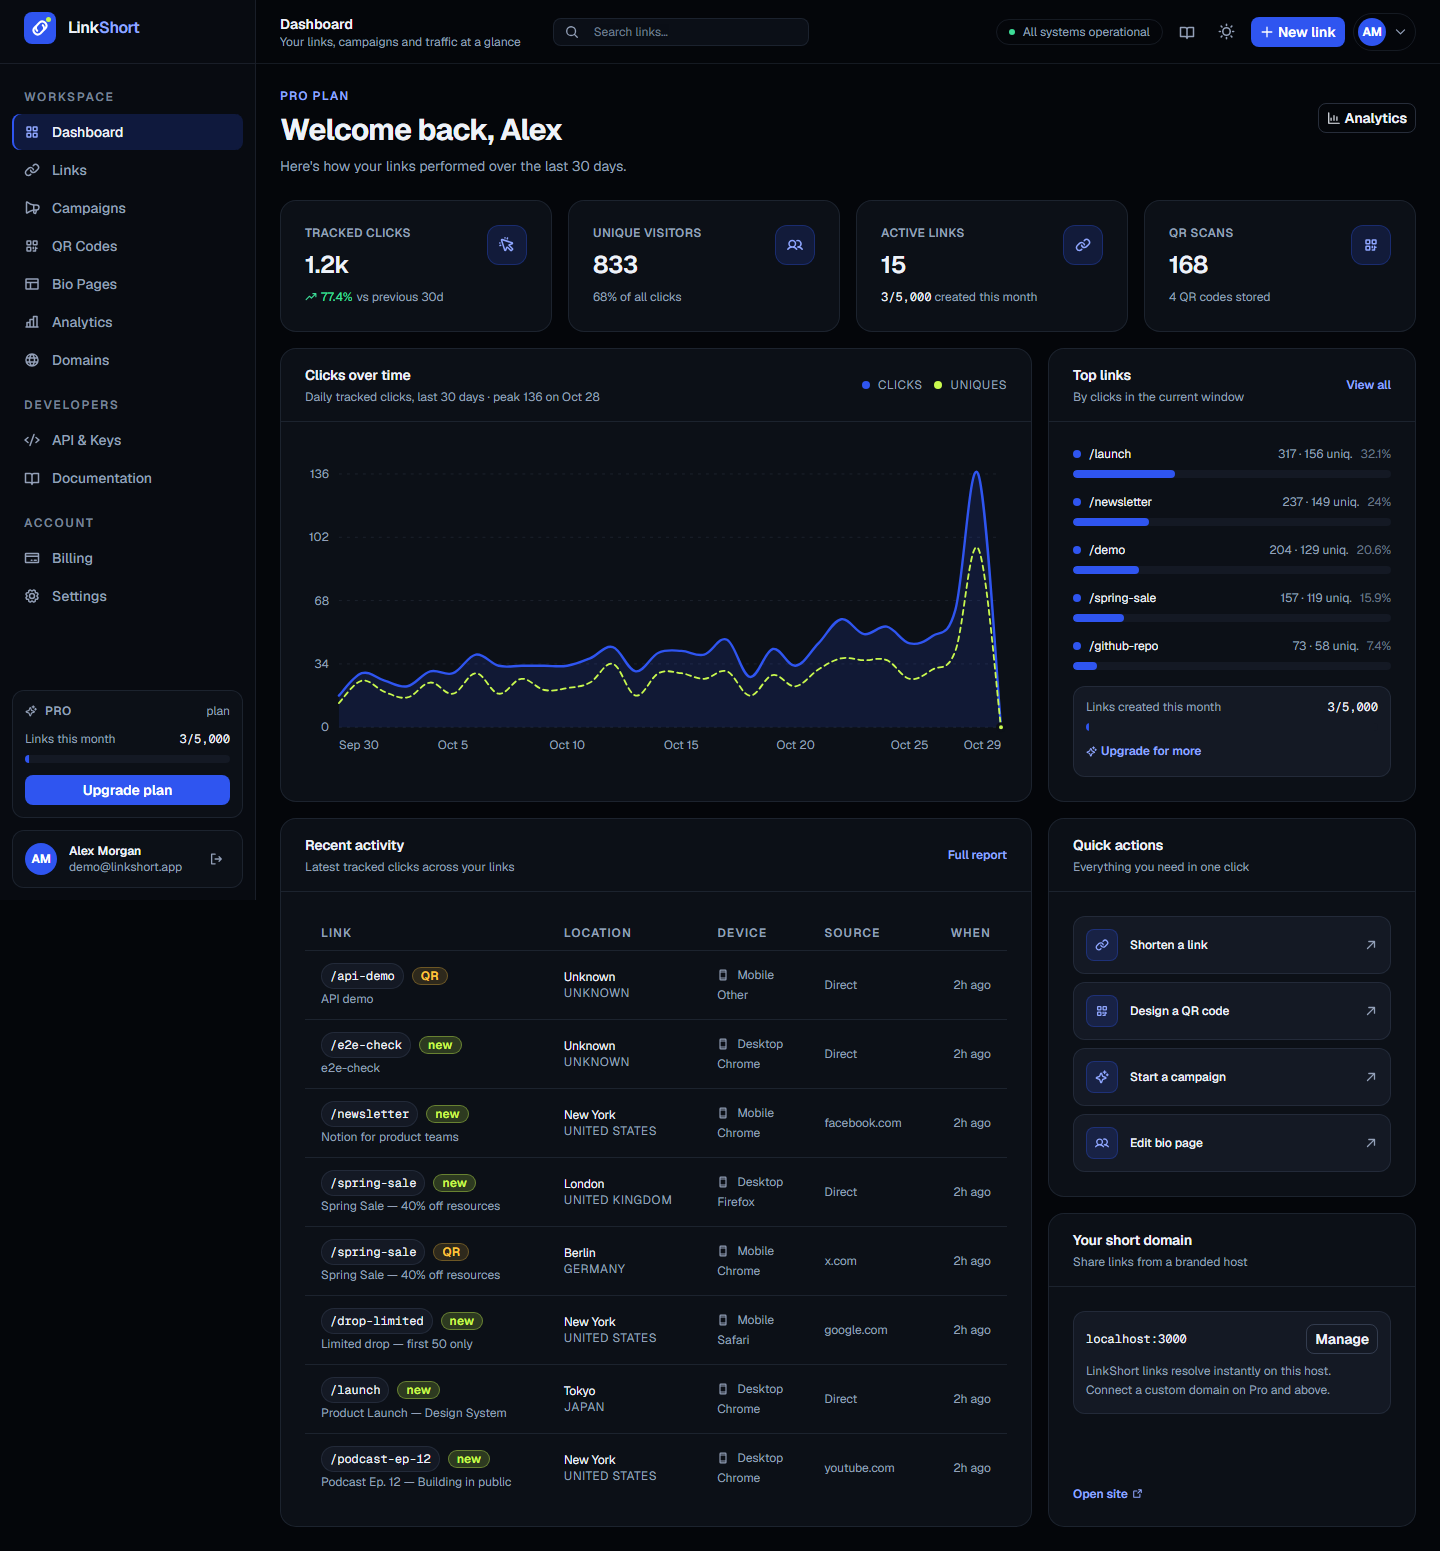
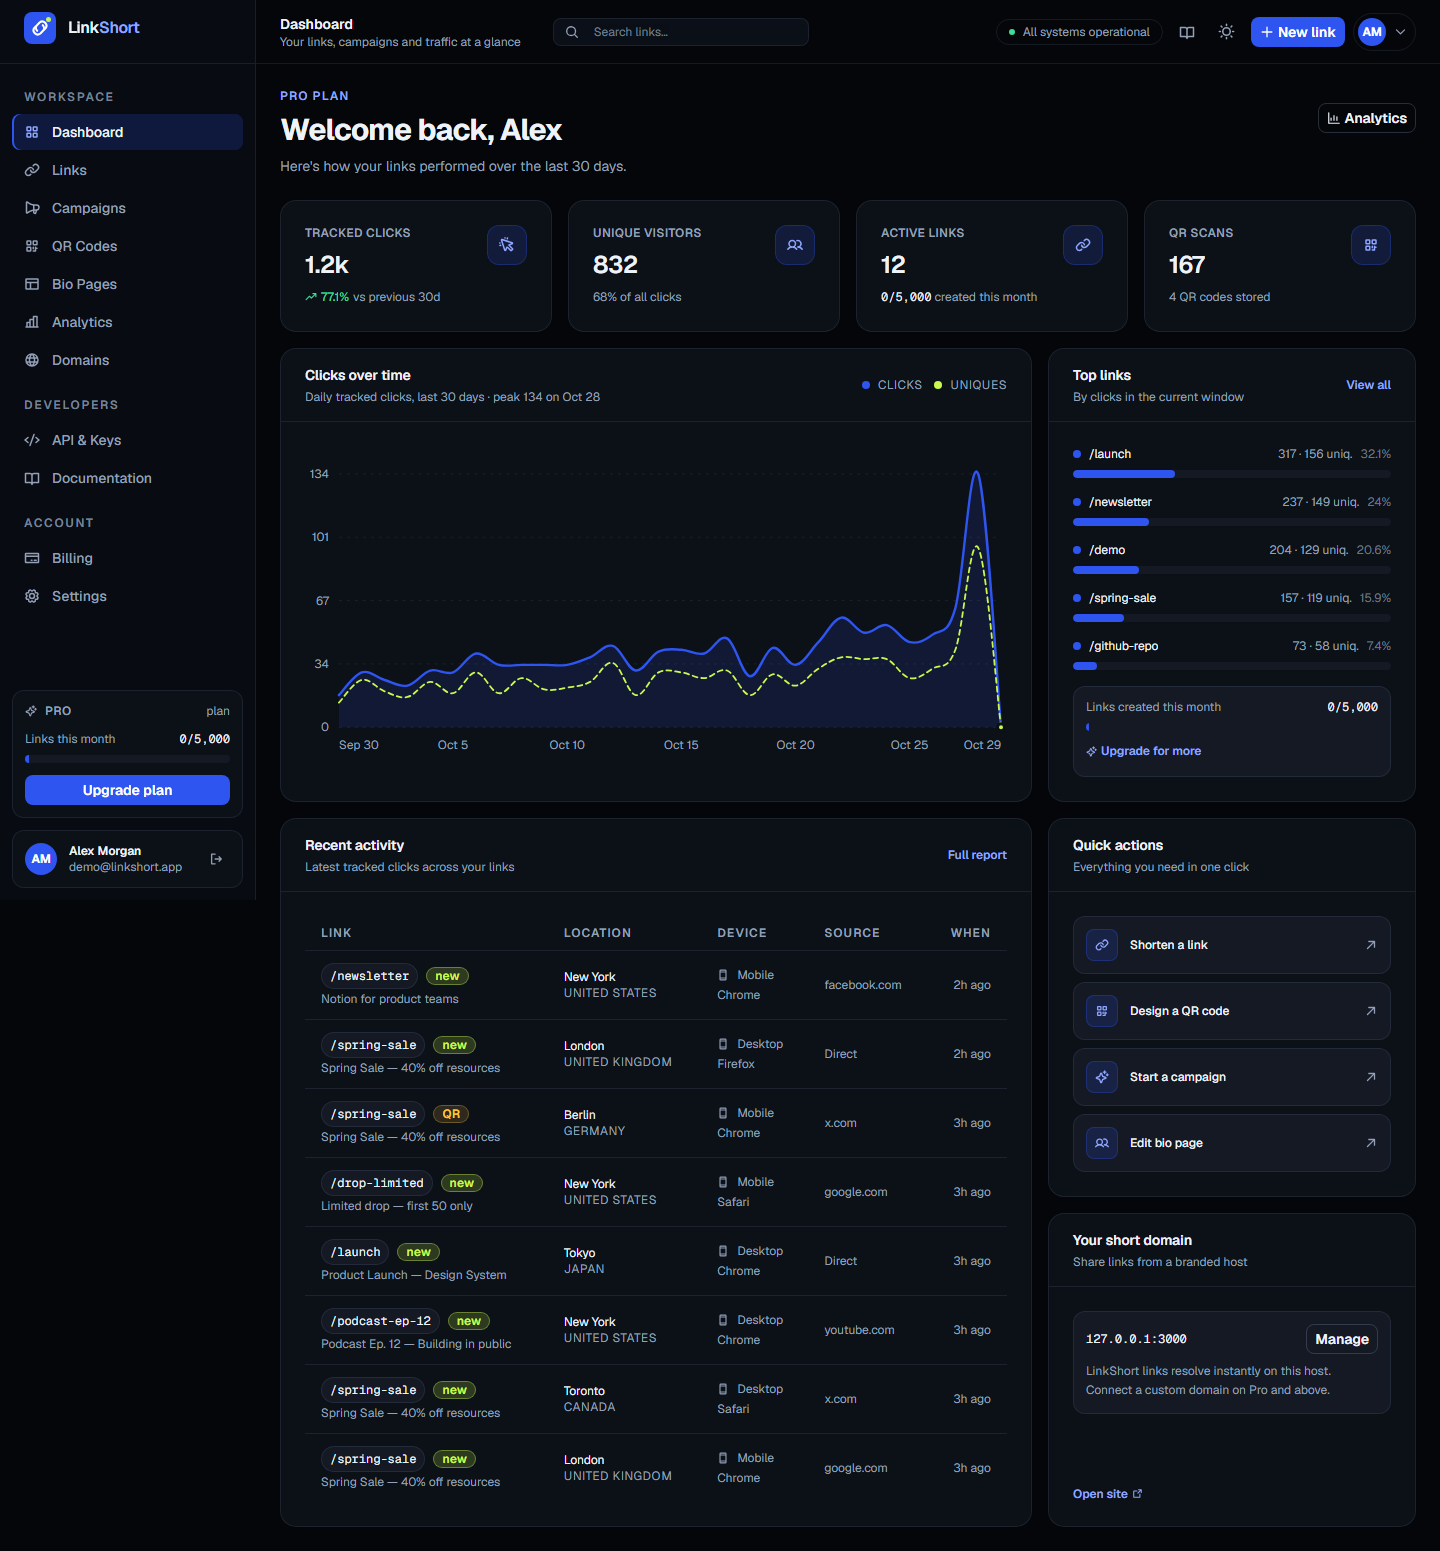
Document the product in detail and correct the setup claims
Expand the README with the plan matrix, the redirect pipeline, the REST API
with request examples, the route and table inventory, token table and
deployment constraints. Drop two claims the code does not support: QR export
is SVG-only, and only link creation is rate limited at 240 requests per
minute. Refresh the dashboard screenshot against the clean seed.

diff --git a/README.md b/README.md
@@ -1,82 +1,191 @@
 # LinkShort
 
-A self-hosted link shortener with branded short links, QR codes, campaigns, bio pages and click analytics. Built as a single Next.js app with a local SQLite database — no external services, no build pipeline beyond `next build`.
+A self-hosted link shortener with branded short links, QR codes, campaigns, bio pages and click analytics. One Next.js app, one SQLite file, no external services.
 
 ![LinkShort dashboard](docs/screenshot-dashboard.png)
 
+- [Highlights](#highlights)
+- [Stack](#stack)
+- [Quickstart](#quickstart)
+- [Configuration](#configuration)
+- [Plans](#plans)
+- [How a short link is served](#how-a-short-link-is-served)
+- [REST API](#rest-api)
+- [Routes](#routes)
+- [Data model](#data-model)
+- [Design system](#design-system)
+- [Project structure](#project-structure)
+- [Deployment](#deployment)
+- [Status and limits](#status-and-limits)
+
 ## Highlights
 
-- **Short links** — custom aliases, expiry dates, click caps, password protection, active/paused toggles and bulk actions.
-- **Click analytics** — 7/30/90/365 day windows, country/city/device/browser/OS/referrer breakdowns, unique-visitor deduplication, bot filtering, CSV export.
-- **QR codes** — foreground/background colours, quiet-zone margin, error-correction level, centre label, PNG/SVG export.
-- **Campaigns** — group links, compare performance, share traffic between A/B variants.
-- **Bio pages** — themed public pages at `/p/[slug]` with social, heading and text blocks and their own click tracking.
-- **Custom domains** — add and verify (DNS TXT) branded domains.
-- **Plans and billing** — Free/Basic/Pro/Growth limits enforced at the API layer, invoices, auto-renew toggle.
-- **Public REST API** — bearer-key endpoints under `/api/v1` with per-plan request limits.
-- **Two themes** — midnight-black default with a light theme, both driven by one CSS token set.
+- **Short links** — custom aliases, expiry dates, click caps, password protection, pause/resume, UTM parameters, A/B variants and bulk actions.
+- **Click analytics** — 7/30/90/365 day windows, country/city/device/browser/OS/referrer breakdowns, unique visitors, bot filtering, CSV export of raw rows.
+- **QR codes** — foreground/background colours, quiet-zone margin, error-correction level, centre label, click attribution per code, SVG export.
+- **Campaigns** — group links under a colour-coded campaign, compare performance per channel.
+- **Bio pages** — themed public pages at `/p/[slug]` with social, heading and text blocks; every tap is tracked as a click.
+- **Custom domains** — add branded domains and verify them with a DNS TXT record.
+- **Plans and billing** — Free/Basic/Pro/Growth quotas enforced in the API layer, invoice history, auto-renew toggle.
+- **Public REST API** — bearer-key endpoints under `/api/v1`; link creation is limited to 240 requests per minute per user.
+- **Two themes** — midnight black by default, light theme available, both driven by one set of CSS tokens.
 
 ## Stack
 
 | Layer | Choice |
 | --- | --- |
-| Framework | Next.js 15 (App Router, React 19, Server Actions) |
-| Language | TypeScript (strict) |
+| Framework | Next.js 15 (App Router, React 19, server components) |
+| Language | TypeScript, strict mode |
 | Styling | Tailwind CSS v4 with `@theme inline` tokens in `app/globals.css` |
-| Data | SQLite via `node:sqlite` (built into Node) |
+| Data | SQLite through the built-in `node:sqlite` module |
 | Icons | Phosphor Icons |
-| QR rendering | `qrcode` |
-| Auth | Signed HTTP-only session cookie (HMAC-SHA256), scrypt password hashes |
+| QR rendering | `qrcode` (SVG output) |
+| Auth | HMAC-SHA256 signed session cookie, scrypt password hashes |
+| Build | `next build` — no extra bundler or transpiler step |
 
-## Getting started
+## Quickstart
 
-Requires **Node.js 22.5+** (24 recommended) — the app uses the built-in `node:sqlite` module.
+Requires **Node.js 22.5+** (24 recommended); the app relies on `node:sqlite`, which ships with Node. No database server, no Docker, no API keys.
 
 ```bash
 npm install
 npm run dev
 ```
 
-Open http://localhost:3000. The database is created and seeded on first request at `data/linkshort.db`.
-
-Sign in with the seeded demo account:
+Open http://localhost:3000. On first request the app creates and seeds `data/linkshort.db` with a demo workspace. Sign in with:
 
 ```
 email:    demo@linkshort.app
 password: demo1234
 ```
 
-Delete `data/` to start over with a fresh seed.
+The seed includes 13 links, four campaigns, four QR codes, a bio page and ~30 days of click history, so the dashboard and analytics screens have something to show immediately. Delete `data/` to reseed from scratch.
 
 ## Configuration
 
-All configuration is optional for local development.
+Every variable is optional for local development. Copy `.env.example` to `.env.local` to override.
 
 | Variable | Default | Purpose |
 | --- | --- | --- |
-| `APP_SECRET` | dev placeholder | HMAC key for session cookies and click signatures. **Set this in production.** |
-| `APP_URL` | request origin | Public base URL used for generated short links, QR payloads and email links. |
+| `APP_SECRET` | dev placeholder | HMAC key for session cookies and click signatures. **Set this in production** — changing it invalidates sessions and password-unlock cookies. |
+| `APP_URL` | request origin | Public base URL used for short links, QR payloads and email links. Set it when running behind a proxy. |
 | `DATABASE_PATH` | `data/linkshort.db` | Absolute path to the SQLite file. |
-| `COOKIE_SECURE` | unset | Set to `1` to mark the session cookie `Secure` (do this behind HTTPS). |
+| `COOKIE_SECURE` | unset | Set to `1` to mark the session cookie `Secure`. Do this behind HTTPS. |
 
-Create a `.env.local` for local overrides; it is git-ignored.
-
-## Scripts
+Generate a secret with:
 
 ```bash
-npm run dev        # development server
-npm run build      # production build
-npm run start      # serve the production build
-npm run typecheck  # tsc --noEmit
+node -e "console.log(require('crypto').randomBytes(32).toString('hex'))"
 ```
+
+## Plans
+
+Quotas are enforced when links, QR codes, campaigns, bio pages and domains are created. The plan's analytics window caps the ranges offered in the dashboard.
+
+| Plan | Price | Links / month | QR codes | Campaigns | Bio pages | Domains | Analytics window |
+| --- | --- | --- | --- | --- | --- | --- | --- |
+| Free | $0 | 100 | 5 | 3 | 1 | 0 | 7 days |
+| Basic | $5 | 1,000 | 50 | 20 | 5 | 1 | 30 days |
+| Pro | $13 | 5,000 | 100 | 50 | 15 | 3 | 90 days |
+| Growth | $41 | 15,000 | 250 | 150 | 30 | 10 | 365 days |
+
+Exceeding a quota returns HTTP `402` with a message naming the limit and the plan.
+
+## How a short link is served
+
+`GET /<code>` is handled by a single route handler (`app/[code]/route.ts`) and returns HTML on the public domain, so errors are styled pages rather than bare JSON:
+
+1. **Lookup** — the code is validated against `[A-Za-z0-9_-]{1,64}`, then resolved from the `links` table. Unknown codes get a 404 page.
+2. **Status** — paused links, expired links and links that already hit their click cap return `410` with an explanation page.
+3. **Password** — links with a password hash render a form (`401`) unless the visitor already holds a signed unlock cookie for that code.
+4. **Destination** — an A/B variant is picked against the configured weight, then UTM parameters from the link are applied to the target URL.
+5. **Capacity** — the click counter is incremented in a single conditional `UPDATE`, so concurrent requests cannot exceed `max_clicks`.
+6. **Tracking** — a click row is written with country, city, device, OS, browser, referrer host, UTM values, variant and QR attribution.
+7. **Redirect** — `302` with `cache-control: no-store`. Links carrying retargeting pixels render a small HTML interstitial instead, so the pixel fires before navigation.
+
+Tracking details worth knowing:
+
+- **Unique visitors** are first-seen-per-link, computed from a truncated HMAC of the client IP — raw IPs are never stored.
+- **Bot traffic** is flagged (`is_bot`) from the user agent and excluded from visitor counts.
+- **QR scans** are attributed when the redirect carries `?qr=<qrcode id>` (generated QR payloads do) and increment the code's scan counter.
+- Click rows are written before the redirect is returned, so counts are consistent immediately.
+
+## REST API
+
+The public API uses the account API key (visible and rotatable on `/app/api`), not the session cookie.
+
+```bash
+curl -X POST http://localhost:3000/api/v1/shorten \
+  -H "Authorization: Bearer $LINKSORT_KEY" \
+  -H "Content-Type: application/json" \
+  -d '{"url":"https://example.com/launch","alias":"launch","title":"Launch","tags":["launch"]}'
+```
+
+| Method | Path | Purpose |
+| --- | --- | --- |
+| `POST` | `/api/v1/shorten` | Create a link. Accepts `url`, `alias`, `title`, `campaignId`, `tags`, `password`, `expiresAt` (ISO date or epoch ms), `maxClicks`, `utm*`, `variantB`, `abWeight`. |
+| `GET` | `/api/v1/links` | List links with `q`, `status`, `sort`, `page`, `size`. |
+| `POST` | `/api/v1/links` | Create a link (same body as `/shorten`). |
+| `GET` | `/api/v1/links/[code]` | Fetch one link by code. |
+
+Rate limit: **240 link creations per minute per user**, over the limit returns `429`. Errors are always JSON in the shape `{ "error": "message" }` with a matching status code (`400` validation, `401` auth, `402` quota, `404` missing, `429` rate limit). `POST /api/v1/shorten` and `GET /api/v1/links/[code]` return the link object directly; the session API used by the dashboard wraps its responses (`{ "ok": true, "link": { … } }`).
+
+The session-based API used by the dashboard lives under `/api/*` (links, campaigns, domains, QR codes, pages, billing, account, export) and rejects cross-origin requests. Two endpoints are worth calling out:
+
+- `GET /api/export/clicks?days=30` — streams every click row as CSV.
+- `GET /api/qrcodes/[id]/image` — renders the QR code as SVG; add `?download=1` to send it as an attachment.
 
 ## Routes
 
-Public: `/` (marketing), `/pricing`, `/docs`, `/terms`, `/privacy`, `/cookies`, `/login`, `/register`, `/forgot-password`, `/reset-password`, `/verify-email`, `/[code]` (redirect), `/p/[slug]` (bio page).
+**Public**
 
-App (session required): `/app/dashboard`, `/app/links`, `/app/links/[id]`, `/app/analytics`, `/app/campaigns`, `/app/qrcodes`, `/app/domains`, `/app/pages`, `/app/pages/[id]`, `/app/billing`, `/app/api`, `/app/settings`.
+| Path | What it is |
+| --- | --- |
+| `/` | Marketing landing with a working shortener |
+| `/pricing`, `/docs` | Plan comparison, API and link-behaviour documentation |
+| `/terms`, `/privacy`, `/cookies` | Legal pages |
+| `/login`, `/register`, `/forgot-password`, `/reset-password`, `/verify-email` | Auth flows |
+| `/<code>` | Short-link redirect (or password / error page) |
+| `/p/[slug]` | Public bio page |
 
-Public API (bearer key): `POST /api/v1/shorten`, `GET|POST /api/v1/links`, `GET /api/v1/links/[code]`.
+**App** (session required): `/app/dashboard`, `/app/links`, `/app/links/[id]`, `/app/analytics`, `/app/campaigns`, `/app/qrcodes`, `/app/domains`, `/app/pages`, `/app/pages/[id]`, `/app/billing`, `/app/api`, `/app/settings`.
+
+## Data model
+
+Eleven tables, created on first boot (`lib/db.ts`):
+
+| Table | Holds |
+| --- | --- |
+| `users` | Account, plan, API key, password hash, plan date |
+| `sessions` | Session tokens with expiry |
+| `links` | Short codes, destination, UTM, A/B variant, password hash, caps, counters |
+| `clicks` | One row per click: geo, device, browser, referrer, UTM, bot/unique flags |
+| `campaigns` | Named, colour-coded groups of links |
+| `qrcodes` | Design settings, scans, foreground/background colours |
+| `pages`, `page_blocks` | Bio pages and their ordered blocks |
+| `domains` | Custom domains and verification tokens |
+| `invoices` | Plan changes recorded as paid invoices |
+| `unlock_attempts` | Throttling for password-protected links |
+
+Deleting `data/linkshort.db` resets everything.
+
+## Design system
+
+All colour lives in `app/globals.css` as CSS custom properties, mapped into Tailwind through `@theme inline`, so the same declaration serves both themes.
+
+| Token | Dark | Light | Use |
+| --- | --- | --- | --- |
+| `--bg` / `--panel` / `--card` | `#04060a` / `#080b11` / `#0c1017` | `#f2f5fa` / `#ffffff` / `#ffffff` | Page, shell and card surfaces |
+| `--ink` / `--muted` | `#eef2f9` / `#93a0b8` | `#0a0e16` / `#5b6679` | Primary and secondary text |
+| `--brand` | `#2f55f0` | `#2444d8` | Fills, primary buttons |
+| `--brand-ink` | `#8fa6ff` | `#1b36b8` | Brand-coloured text and icons |
+| `--accent` | `#c9f94e` | `#c9f94e` | Lime highlight fills |
+| `--accent-fg` | `#c9f94e` | `#4f6b00` | Readable lime text |
+| `--ok` / `--warn` / `--bad` | green / amber / rose | darker equivalents | Status only |
+
+- Charts use `--chart-1..6`. Bar lists encode magnitude with a single colour; only the donut uses categorical colours.
+- Tints are derived with `color-mix()` from the base tokens, so adding a theme means declaring one block of variables.
+- Everything interactive is cobalt; lime is reserved for emphasis (badges, the uniques series, brand mark dot), never for buttons.
 
 ## Project structure
 
@@ -84,27 +193,38 @@ Public API (bearer key): `POST /api/v1/shorten`, `GET|POST /api/v1/links`, `GET 
 app/
   (marketing)/      landing, pricing, docs, legal
   (auth)/           login, register, password reset, verification
-  app/              authenticated dashboard and product screens
-  api/              route handlers (auth, links, analytics, billing, v1)
+  app/              authenticated product screens
+  api/              session API, auth, export, public v1 API
+  [code]/           short-link resolver
   p/[slug]/         public bio page
 components/         UI primitives, charts, feature views, marketing sections
-lib/                db, auth, plans, tracking, links, QR, formatting helpers
+lib/                db, auth, plans, quota, tracking, links, QR, UA parsing
 data/               SQLite database (git-ignored)
 ```
 
-## Design system
+## Deployment
 
-Colours live in one place — `app/globals.css` — as CSS custom properties mapped into Tailwind via `@theme inline`.
+```bash
+npm ci
+npm run build
+APP_SECRET=... APP_URL=https://sho.rt COOKIE_SECURE=1 npm run start
+```
 
-- Surfaces: midnight black (`--bg`, `--panel`, `--card`), white in the light theme.
-- Primary: cobalt blue (`--brand`) for fills, `--brand-ink` for text and icons on dark surfaces.
-- Accent: acid lime (`--accent`) for highlights, `--accent-fg` for readable lime text.
-- Semantic colours (`--ok`, `--warn`, `--bad`) are reserved for status, never for decoration.
-- Charts use `--chart-1..6`; bar lists encode magnitude with one colour, donuts encode categories.
+- Run on **one instance, or with a shared volume** — SQLite and the in-process rate limiter both assume a single writer. Horizontal scaling needs a networked database and a shared rate-limit store.
+- Put the app behind HTTPS and set `COOKIE_SECURE=1`; session and unlock cookies are HTTP-only and SameSite=Lax.
+- Back up by copying `data/linkshort.db` (plus `-wal`/`-shm` if the process is running).
+- `outputFileTracingRoot` is pinned in `next.config.ts` so the build does not infer a workspace root from a lockfile higher up the tree.
 
-## Status
+## Status and limits
 
-This is a complete, working product build backed by a local database, not a mockup. Payments are recorded as invoices without a real processor, rate limiting is in-process, and email verification/reset links are written to the server log instead of being sent. Wire up a mail provider, a payment provider and a shared rate-limit store before exposing it publicly.
+This is a working product build backed by a real database, not a mockup. Before exposing it publicly:
+
+- **Payments are simulated** — checkout writes a paid invoice instead of charging a card. Swap in a processor in `app/api/billing/*`.
+- **Email is not wired up** — verification and reset links are printed to the server log. Add a mail provider in `app/api/auth/*`.
+- **Rate limiting is per process** — buckets live in a module-level map, reset on restart.
+- **API keys are stored in plaintext** — rotate them per environment; hashing them would break the "show once" UX that does not exist yet.
+- **Click-count limits in plan copy are not enforced** — link, QR, campaign, page and domain quotas are; advertised monthly click caps are not.
+- **Bot detection is user-agent based** — good enough to keep crawlers out of the numbers, not a general-purpose anti-fraud system.
 
 ## License
 
